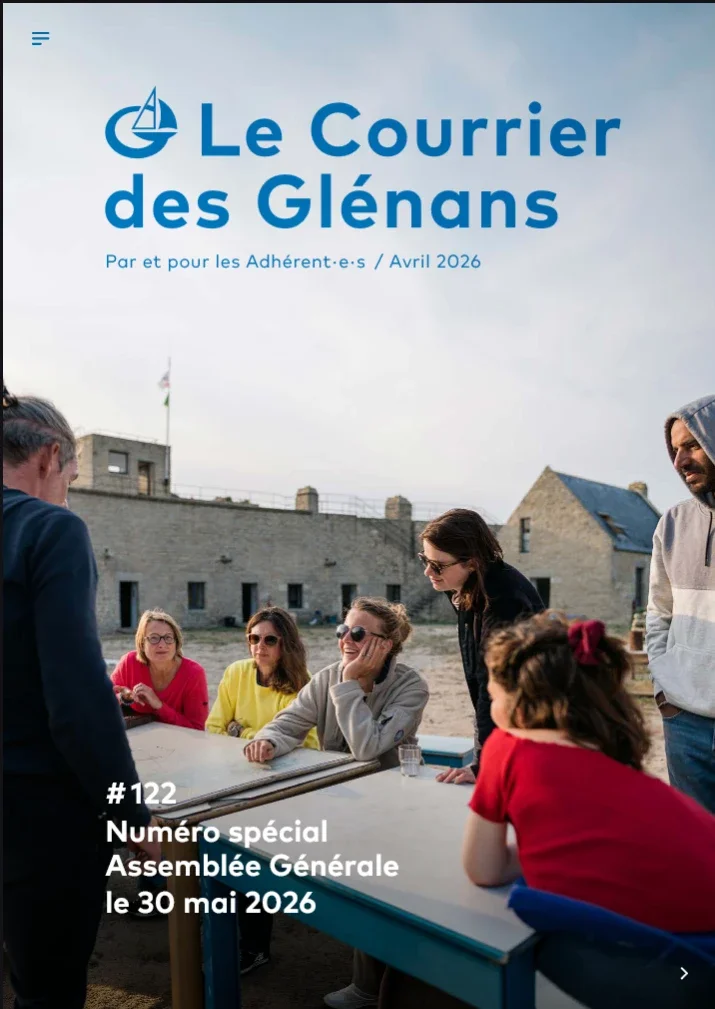
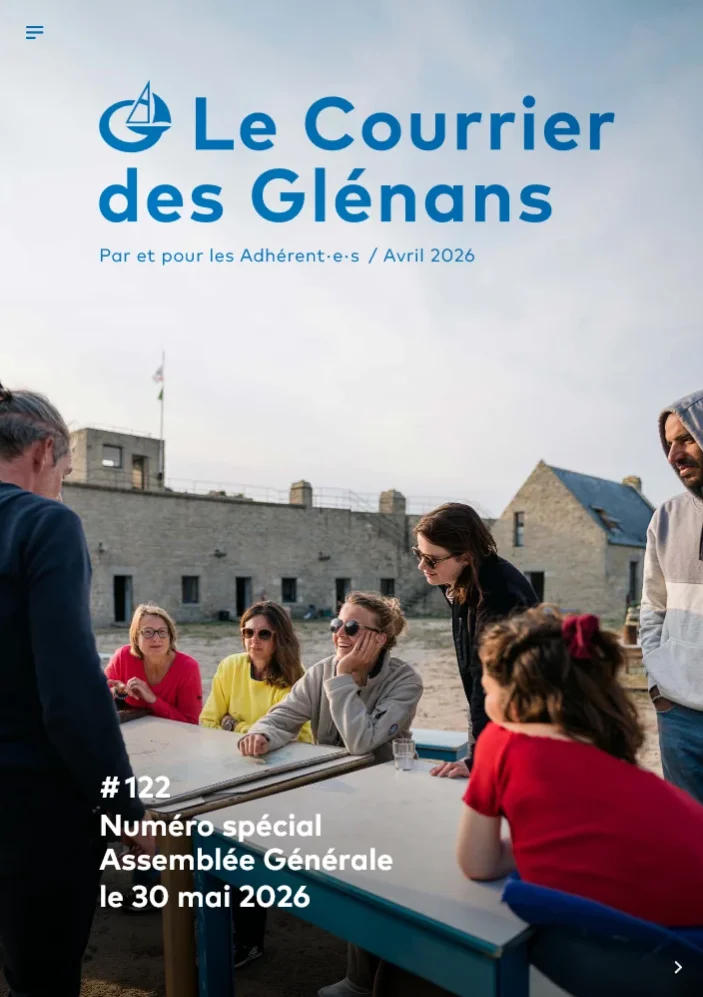
Soutenance écran 26 : couverture recadrée, extrait du cap agrandi
Claude-Session: https://claude.ai/code/session_01MULeTtCr62dFyDFZeWsVRQ

diff --git a/assets/css/soutenance.css b/assets/css/soutenance.css
@@ -1223,9 +1223,9 @@ img.emoji { height: 1em; width: 1em; margin: 0 0.05em 0 0.1em; vertical-align: -
 .emoji-cheval img.emoji { vertical-align: middle; }
 
 /* Écran 26 : couverture du Courrier des Glénans, extrait du cap posé dessus. */
-.courrier-cap { position: relative; display: grid; justify-items: end; padding-bottom: 8vh; }
-.courrier-cap .couverture { width: auto; max-width: 78%; max-height: 58vh; border: 4px solid #fff; transform: rotate(2deg); }
+.courrier-cap { position: relative; display: grid; justify-items: end; padding-bottom: 14vh; }
+.courrier-cap .couverture { width: auto; max-width: 70%; max-height: 54vh; border: 4px solid #fff; transform: rotate(2deg); }
 .courrier-cap .extrait {
-  position: absolute; left: 0; bottom: 0; width: 82%; max-width: none;
+  position: absolute; left: -8%; bottom: 0; width: 104%; max-width: none;
   background: #fff; border: 4px solid #fff; transform: rotate(-2.5deg);
 }
